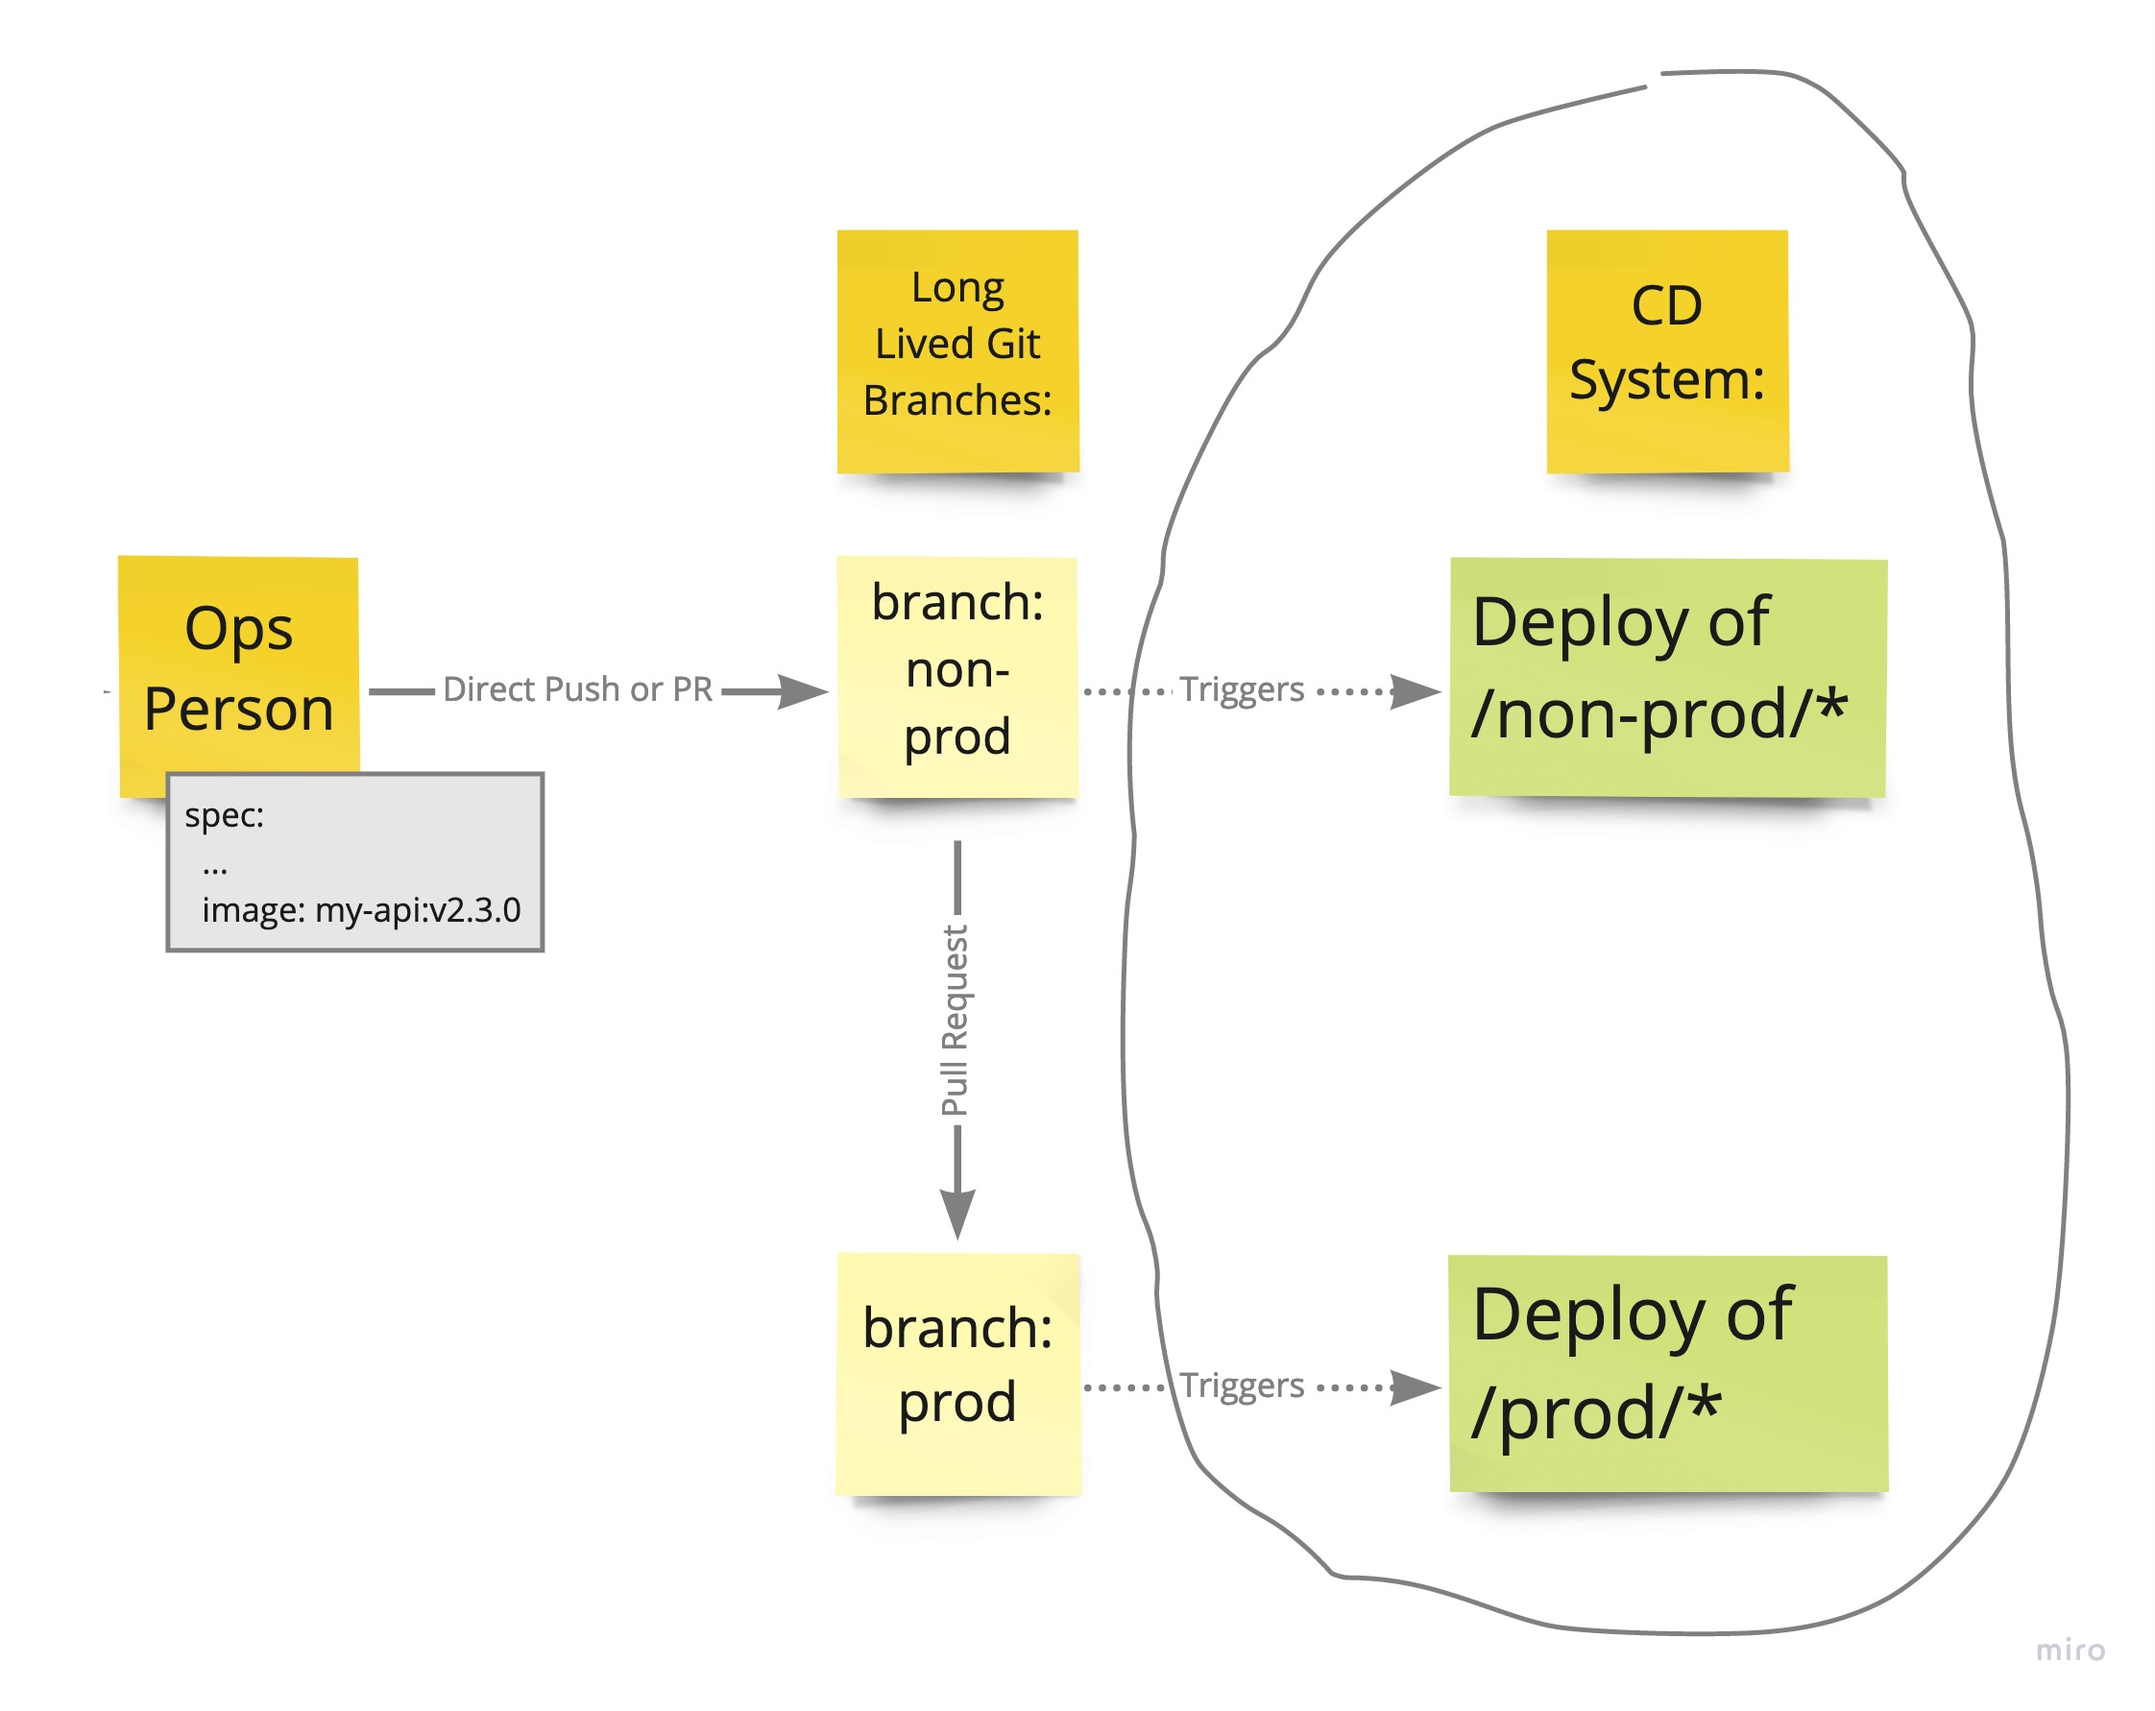
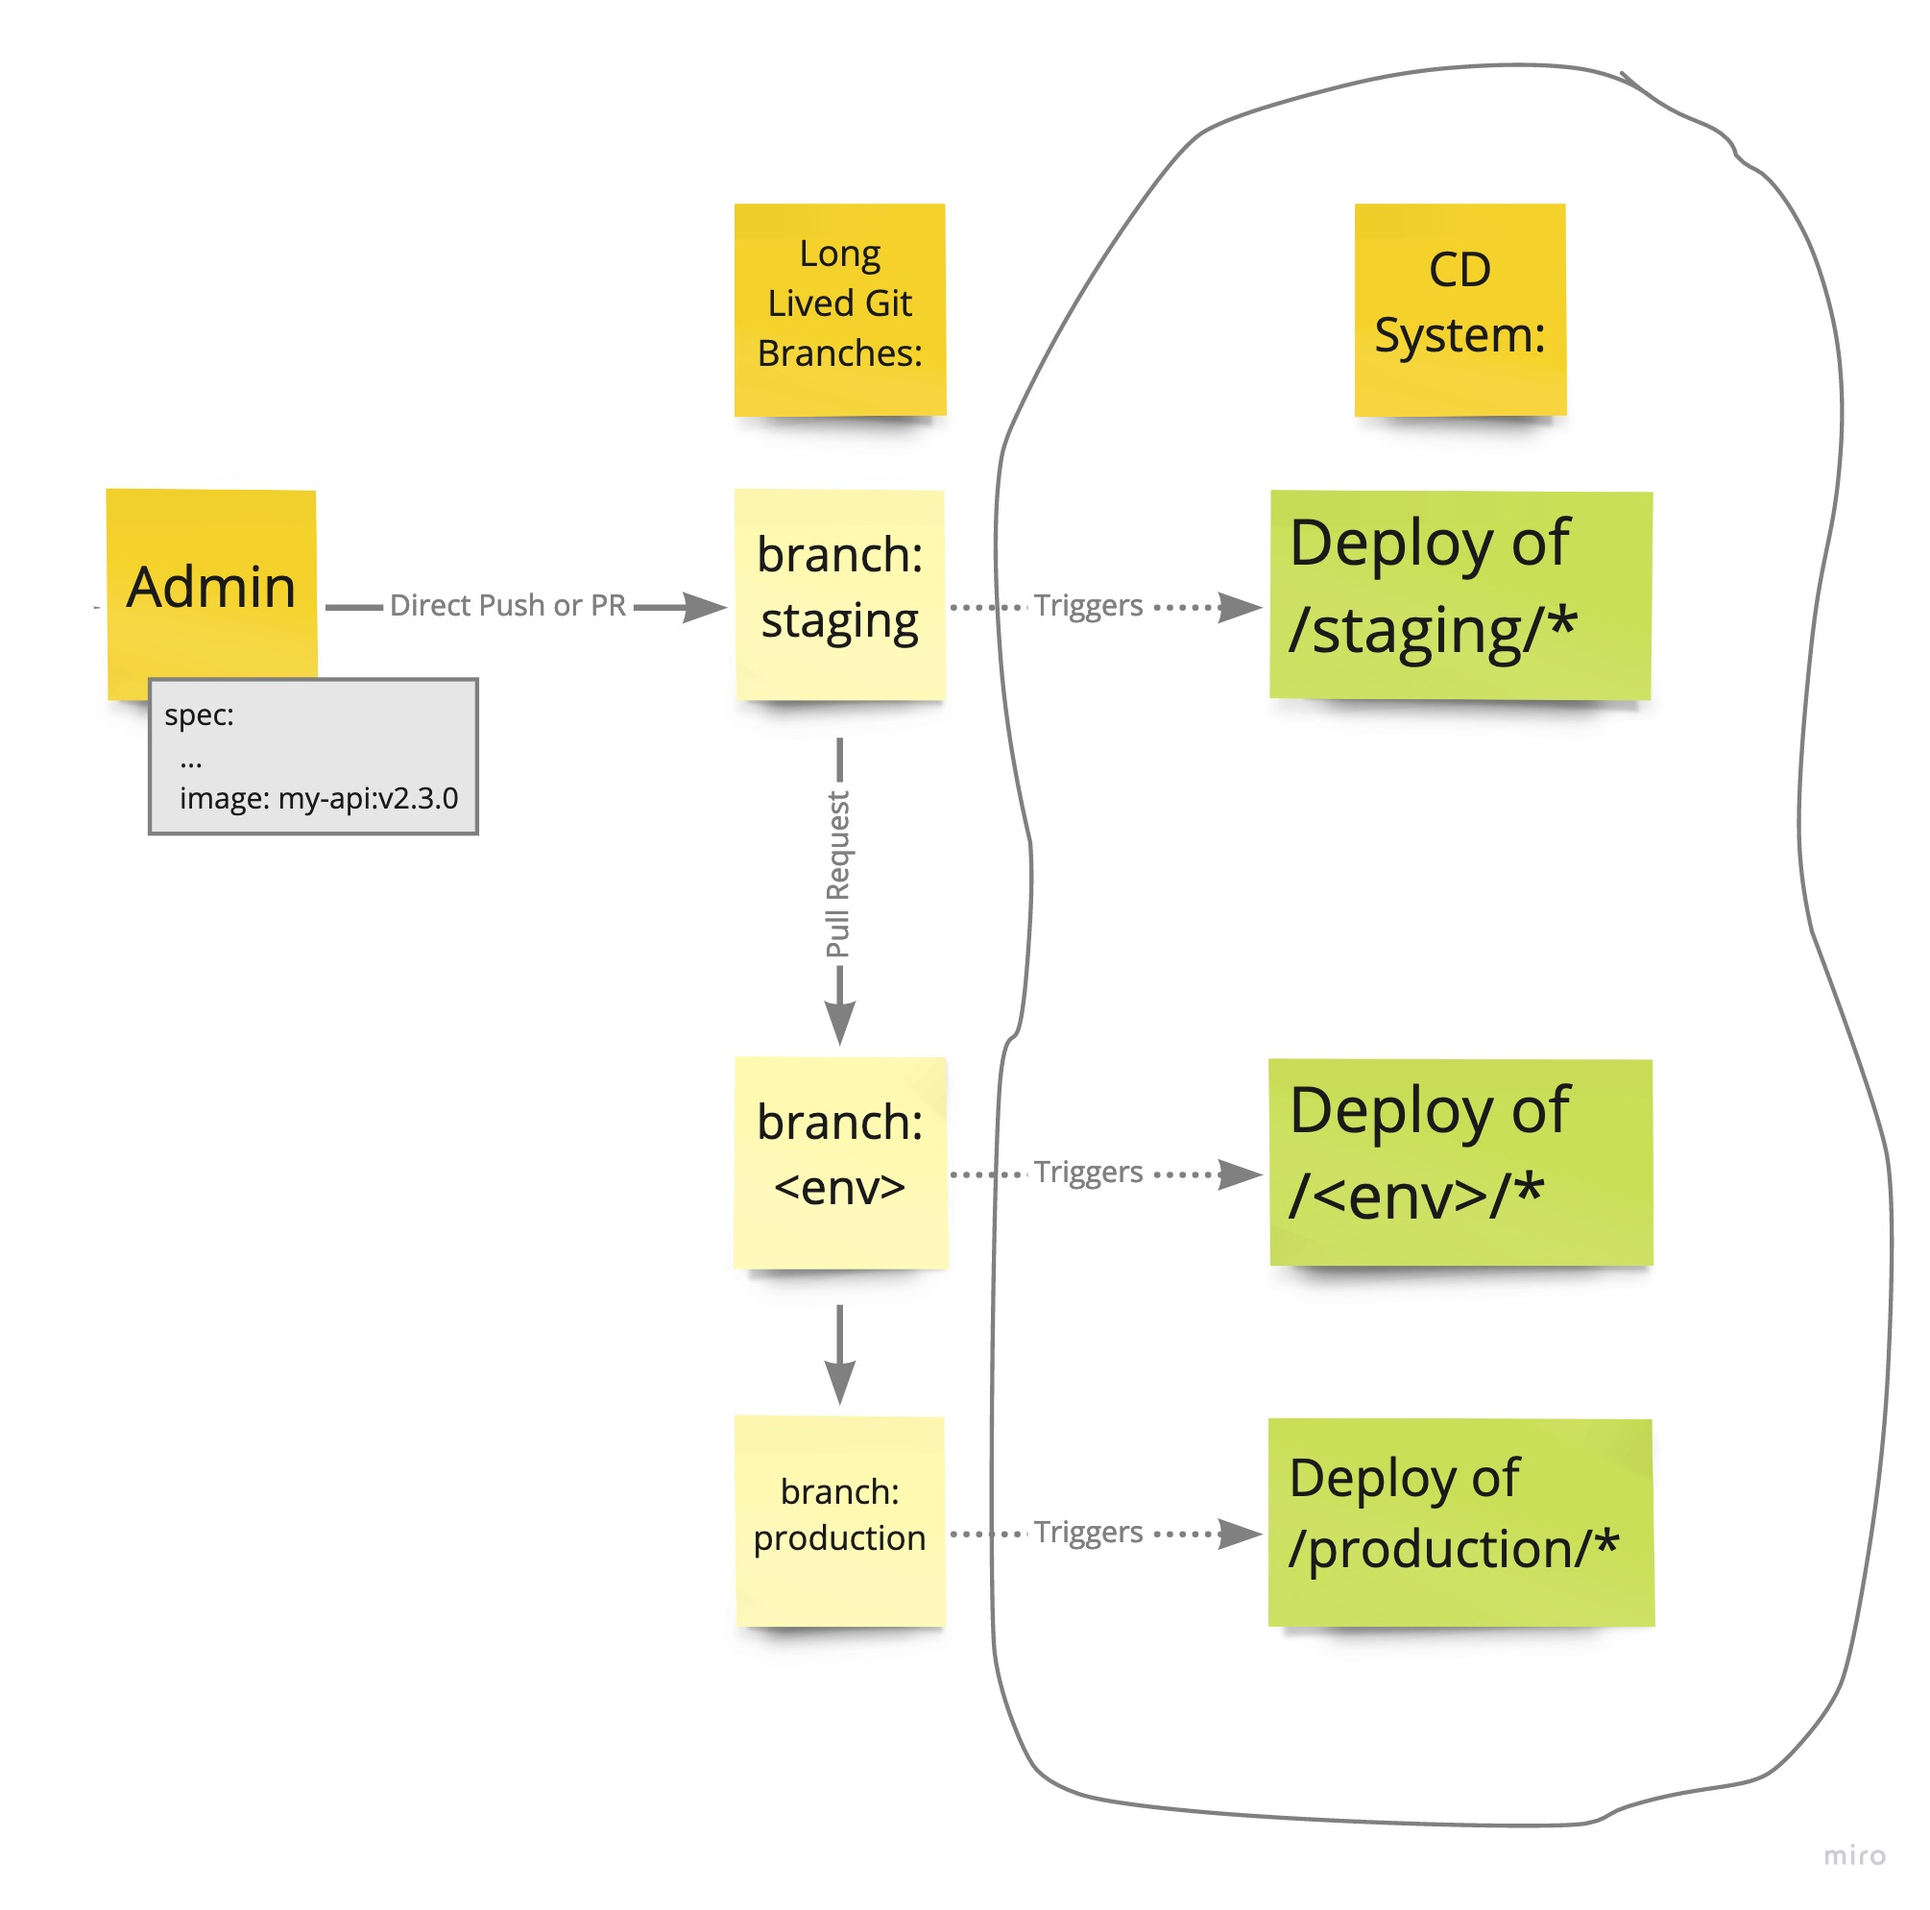
Un-nest CNH workflow/ section and update to reflect new ref impl

diff --git a/content/docs/cloud-native-handbook/deployment.md b/content/docs/cloud-native-handbook/deployment.md
@@ -1,28 +1,30 @@
 ---
-title: "Deploying"
+title: "Deployment"
 weight: 30
+aliases:
+- /docs/cloud-native-handbook/workflow/deploying/
 ---
 
-# Deploying
+# Deployment
 
-All deployments should be triggered from a "config repo". This is a repository where the sole purpose is to describe runnable software (not develop it - no source code here).
+Since Kubernetes is a declarative system, the act of deploying software translates to pushing Kubernetes configuration manifests into a cluster. These manifests contain descriptions of applications that should be running (what container image, how many replicas, any environment variables, dns names, etc). The cluster will then work to make sure what was declared becomes a reality.
+
+## Branching Strategy
+
+All manifests should be version controlled in a git repository (referred to here as a config repo). This usually translates to a "cluster config repo" for the platform team and at least one "app config repo" for each app team. Any commit to a config repo should result in the those manifests being applied into a cluster. The following branching strategy should work for most use-cases.
 
 ![Deployment repo branching](/images/deployment-repo.jpg)
 
 ## Environment Promotion
 
-There are two top concerns when promoting software across environments:
+There are two main concerns when promoting software across environments:
 
 * **Isolation** - Seperating changes across environments
-* **Parity / Variety** - Minimizing / accounting for differences
+* **Parity / Variety** - Minimizing / efficiently accounting for differences between environments
 
 ### Isolation
 
-Isolation is addressed using branching. The top concern is to isolate non-production and production changes. To do this, two branches are used: `non-prod` and `prod`.
-
-> *Why not use a branch per environment?*
-> 
-> Every environment could be mapped to its own branch. However, this increases the complexity of merges. Maintaining two long lived branches where merges flow in one direction (always fast-forward `prod` to the head of `non-prod`) greatly simplifies workflows while still minimizing risk to production.
+Environment isolation is addressed using branching. On the path-to-production pull requests are used to promote changes across environments. These merges should be fast-forward-only, eliminating merge conflicts.
 
 ### Parity / Variety
 
@@ -30,14 +32,13 @@ As software moves from non-production to production it is important maintain the
 
 ```
 base/       # Common config across all environments
-staging/    # Deployed from non-prod branch (references base/)
-feature-x/  # Deployed from non-prod branch (references base/)
-production/ # Deployed from prod branch     (references base/)
+staging/    # Deployed from "staging" branch    (references base/)
+production/ # Deployed from "production" branch (references base/)
 ```
 
-A `base/` directory is used to account for commonality (parity) across environments. Changes that are to be promoted from non-production to production should be made in base (i.e. updated image version). Once the `non-prod` branch gets merged into the `prod` branch, these changes will be promoted.
+A `base/` directory is used to account for commonality (parity) across environments. Changes that are to be promoted from non-production to production should be made in base (i.e. updated image version). As the `base/` changes make their way into environment-specific branches, these changes will be promoted.
 
-Individual `<environment>/` directories are used to account for variety across environments. Variances that should always exist across environments (i.e. replica count / resource allocation) should be maintained in these directories as patches to base resources or additional resources to be added.
+Individual `<environment>/` directories are used to account for variances that should always exist across environments (i.e. replica count / resource allocation). These variations are usually maintained in the form of patches on the base resources.
 
 > *Why not use staging as a base for production?*
 >
@@ -59,12 +60,12 @@ The scope of a config repo should be determined by identifying a [bounded contex
 
 ![Config repo tree](/images/config-repo-tree.jpg)
 
-## Summary
+## Takeaways
 
 ```
 * Environments seperated by directory within repo.
 
-* Production and non-production environments seperated by branch (and directory).
+* Staging/Production/etc. environments seperated by branch (and directory).
 
-* Branch merges: main --> non-prod --> prod
+* Fast-forward branch merges: staging --> prod
 ```

diff --git a/content/docs/cloud-native-handbook/repositories.md b/content/docs/cloud-native-handbook/repositories.md
@@ -1,11 +1,15 @@
 ---
-title: "Organizing Code & Config"
+title: "Repositories"
 weight: 10
+aliases:
+- /docs/cloud-native-handbook/workflow/organizing-code-and-config/
 ---
 
-# Organizing Code and Config
+# Repositories
 
-Using a seperate repository for code and deployment manifests is recommended. The purpose of the code repo is solely to produce versioned software artifacts. The purpose of the config repo is solely to describe deployable software. Seperating these concerns provides multiple benefits.
+When building on top of a cloud native platform all code and configuration should be version controlled. In Kubernetes, all deployment events are merely a result of updating a configuration file (referred to here as a Kubernetes manifest). Since all changes to code and config must be version controlled, we will use our repository as the origin of all changes to running software. This process is known as GitOps.
+
+When implementing a GitOps process, using a seperate repository for code and config (manifests) is recommended. The purpose of the code repo is solely to produce versioned software artifacts. The purpose of the config repo is to deploy software. Seperating these concerns provides multiple benefits detailed below.
 
 ## Small Merges
 
@@ -25,9 +29,11 @@ Applications are commonly composed of multiple components (REST APIs, databases,
 
 If code and deployment manifests live in the same repo, additional intelligence will be needed to determine if a code change or a config change occured in order to decide whether a build is necessary. This problem commonly requires slightly different code for each repository (due to variance in directory structures and language/tooling choices).
 
-## Summary
+## Takeaways
 
 ```
+GitOps - It all starts with the Repo
+
 1 Config Repo : N Code Repos
 
 Code Repo (for developing) --produces--> Built Software

diff --git a/content/docs/cloud-native-handbook/development.md b/content/docs/cloud-native-handbook/development.md
@@ -1,11 +1,15 @@
 ---
-title: "Developing"
+title: "Development"
 weight: 20
+aliases:
+- /docs/cloud-native-handbook/workflow/developing/
 ---
 
-# Developing
+# Development
 
 All development should occur in a "code repo". This is a repository where the sole purpose is to produce deployable software. In the cloud native world, this means the goal is to push container images to a registry.
+
+## Branching Strategy
 
 The branching strategy described here mirrors [oneflow](https://www.endoflineblog.com/oneflow-a-git-branching-model-and-workflow). We feel like it is a good fit for most teams. A single long-lived branch keeps merging simple. Git tagging triggers container image tagging. Deployment is decoupled, avoiding the complexity of maintaining environment-specific branches.
 
@@ -100,7 +104,7 @@ After fixing the bug, follow the same procedure used in a release branch: create
 
 In a cloud native world, all tests and builds should occur in containers. This means that your CI system does not need to be very complex. The biggest complexity here will come from linking the CI system to the repository (auth with service accounts, defining branch merging requirements, etc). Prefer integrated CI systems when possible to avoid the complexity of linking these two systems (i.e. GitHub workflows, GitLab pipelines).
 
-## Summary
+## Takeaways
 
 ```
 1 Long lived branch: "main"

diff --git a/content/docs/cloud-native-handbook/teams.md b/content/docs/cloud-native-handbook/teams.md
@@ -1,0 +1,28 @@
+---
+title: "Teams"
+weight: 50
+---
+
+# Teams
+
+## Delegation of Resource Management
+
+When organizing teams and processes, it helps to think of Kubernetes manifests as either application or cluster related:
+
+1. Application-related manifests are namespaced, some common ones being:
+	- Deployment (What container should be running)
+	- Service (Service discovery / cluster DNS)
+	- ConfigMap (Define application confiuration files and env vars)
+
+2. Some examples of cluster-concerns / administrative manifests include:
+	- Namespace (A group of other resources)
+	- ResourceLimit (How much cpu/memory can be used in a Namespace)
+	- NetworkPolicy (What apps can talk to eachother)
+	- ClusterRole/ClusterRoleBinding (Access control, what k8s users can see/do)
+
+Typically, cluster operations teams have the ability to manage what namespaces (and associated restrictions) exist. They would then delegate access to configure application-related manifests into those namespaces to individual app teams.
+
+## User Access Control
+
+TODO
+

diff --git a/content/docs/cloud-native-handbook/exercise-deploy.md b/content/docs/cloud-native-handbook/exercise-deploy.md
@@ -1,9 +1,20 @@
 ---
-title: "Exercise"
+title: "Exercise: Deploying"
 weight: 40
+aliases:
+- /docs/cloud-native-handbook/workflow/exercise/
 ---
 
-# Workflow Exercise
+# Exercise - Deploying Stuff to Kubernetes
+
+## Prereqs
+
+Make sure you have the following tools installed and up to date:
+
+- [docker](https://docs.docker.com/get-docker/) - For building containers and running k8s with `kind`.
+- [kind](https://kind.sigs.k8s.io/docs/user/quick-start/) - For creating local k8s clusters.
+- [kubectl](https://kubernetes.io/docs/tasks/tools/install-kubectl/) - For interacting with k8s.
+- [kustomize](https://kubernetes-sigs.github.io/kustomize/installation/) - For templating k8s manifests.
 
 ## Setup
 
@@ -60,17 +71,17 @@ In another terminal...
 curl localhost:8000 -v
 ```
 
-## Update the Application
+## Update an Application
 
 TODO
 
-## Redeploy the Application
+## Deploy an Updated Application
 
 TODO
 
 ## Cleanup
 
-Delete the cluster.
+Delete the local cluster.
 
 ```sh
 kind delete cluster --name $CLUSTER

diff --git a/content/docs/cloud-native-handbook/_index.md b/content/docs/cloud-native-handbook/_index.md
@@ -1,5 +1,19 @@
 ---
-title: Cloud Native Handbook
+title: "Cloud Native Handbook"
+weight: 1
+bookCollapseSection: true
+aliases:
+- /docs/cloud-native-handbook/workflow/
 ---
 
 # Cloud Native Handbook
+
+The Cloud Native Handbook contains *opinionated* stances on Cloud Native concepts accompanied by exercises backed by a set of reference implementations. The reference code comes from on-the-job implementations and the opinions are based on experience consulting with companies ranging from the smallest of startups to large enterprises.
+
+Topics covered:
+
+- Repository organization (code and config)
+- Development workflow (branching, building container images)
+- Deploying code and configuration changes (branching, gitops)
+- Teams (delegating resource management)
+
